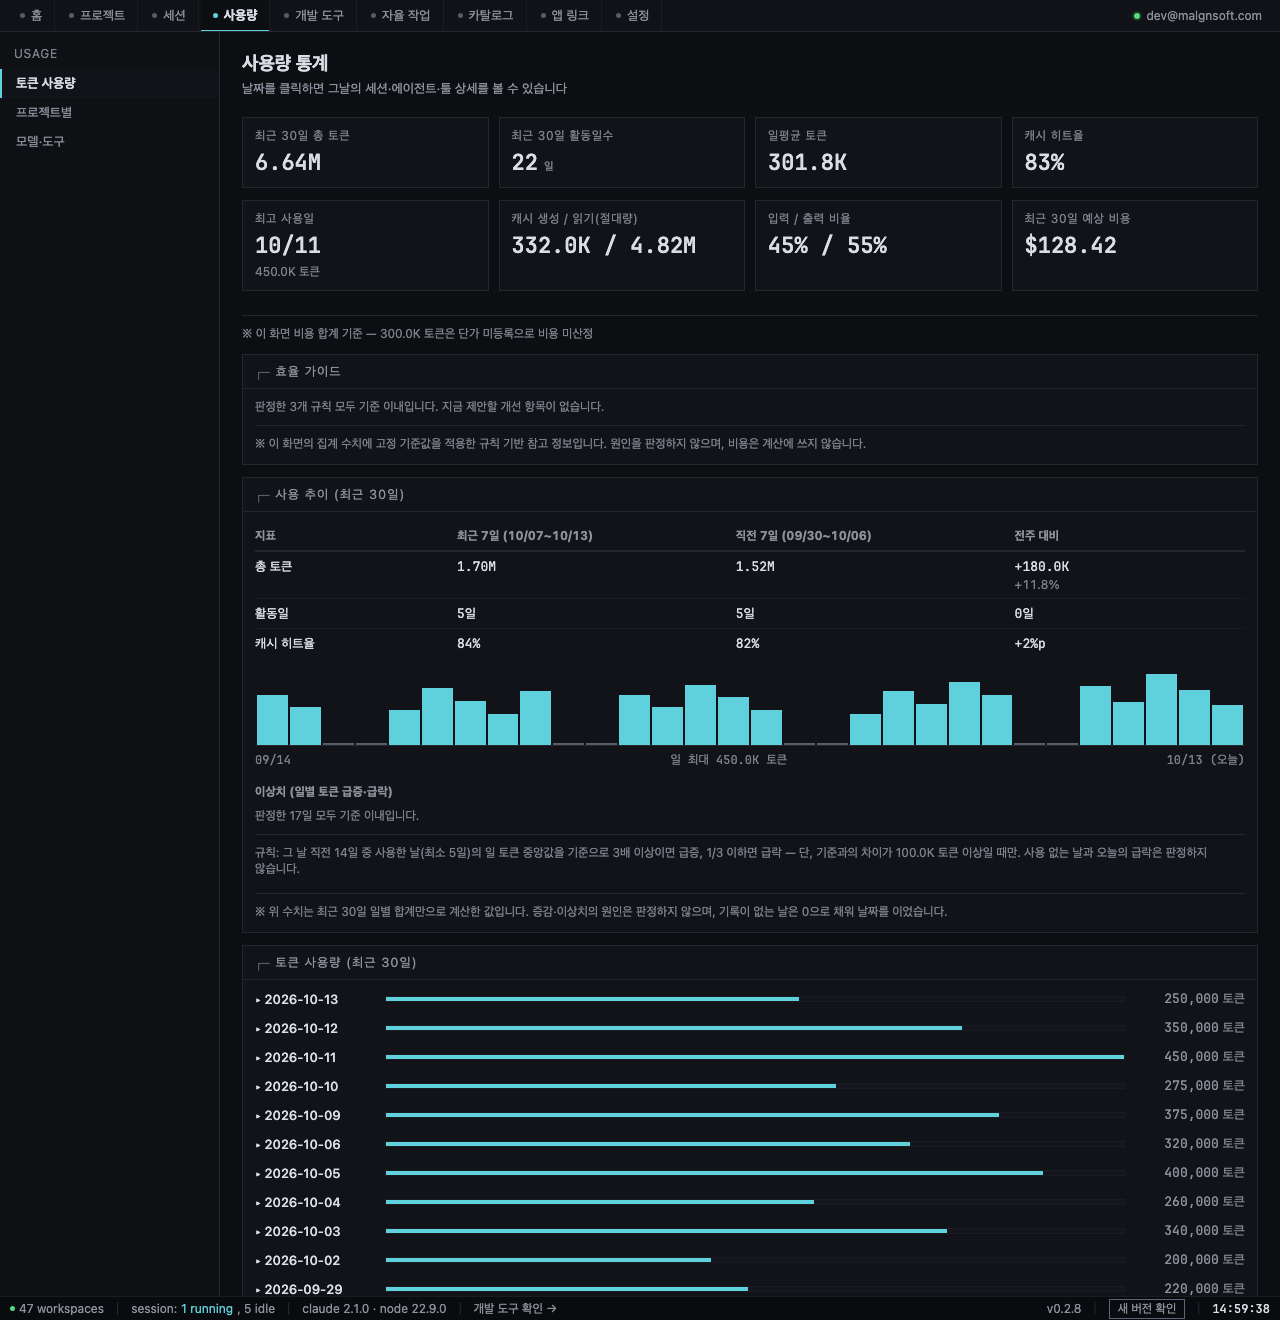
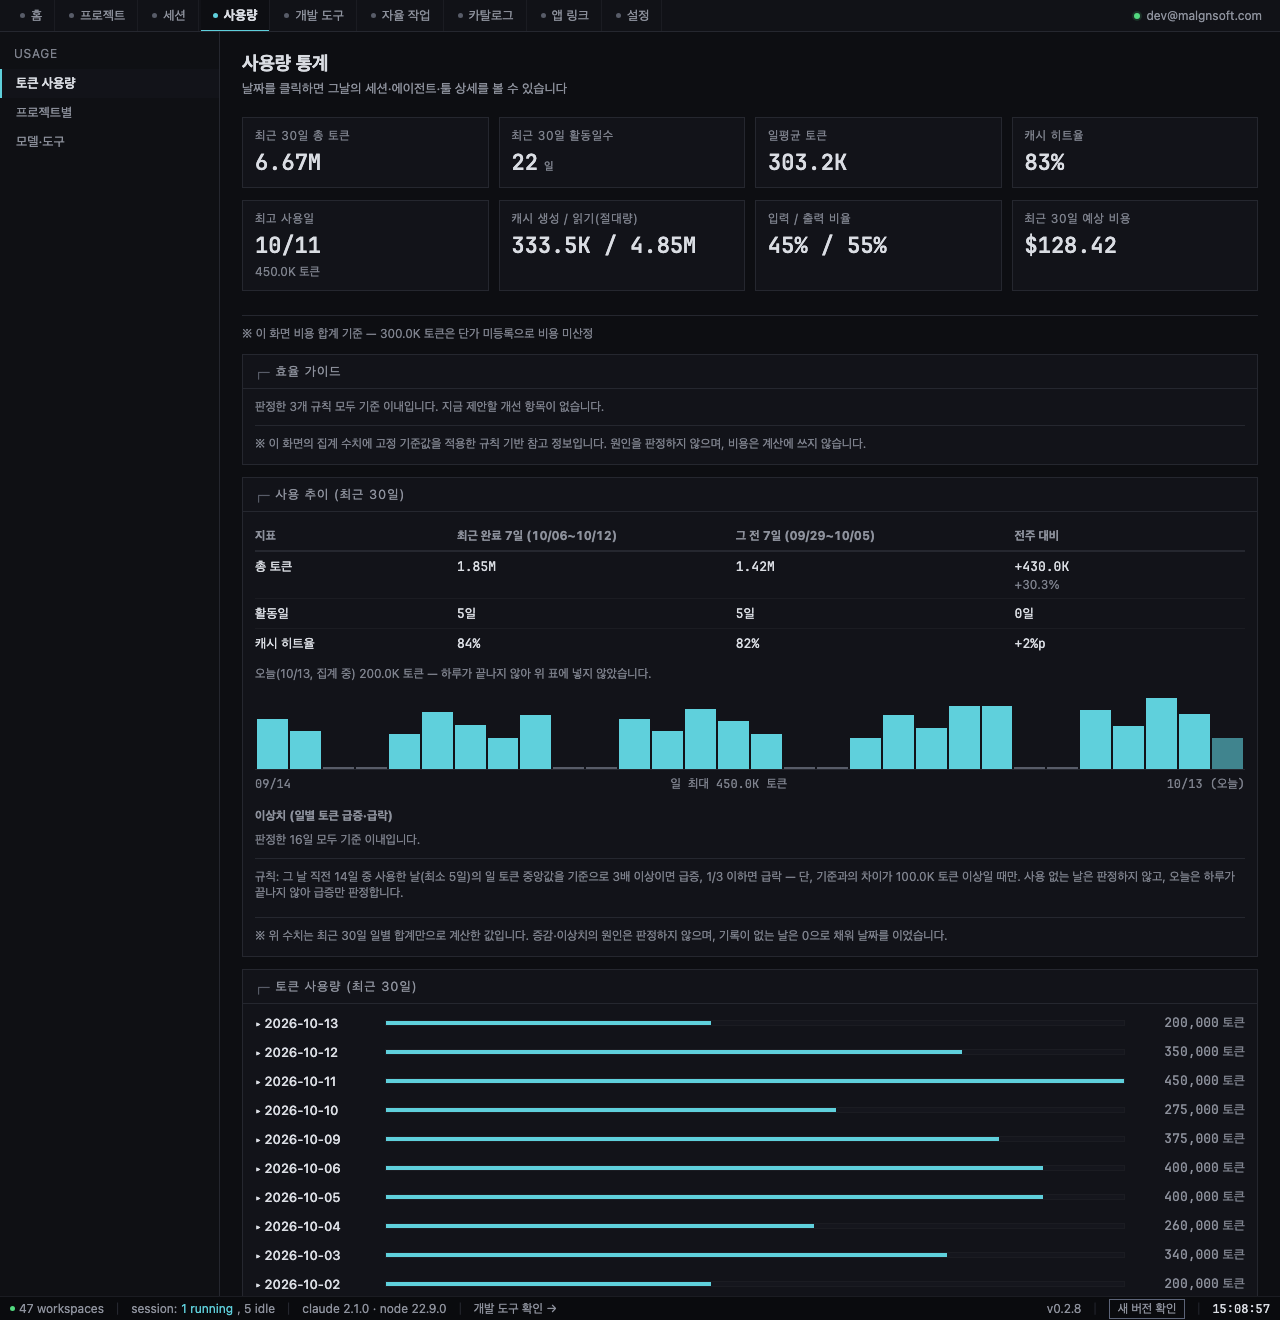
fix(r8): 주간 비교를 어제까지 끝난 7일 기준으로 바꾸고 오늘은 집계 중으로 따로 표기한다
- RV-001: 최근 완료 7일(오늘-7~-1) vs 그 전 7일(오늘-14~-8)로 비교. 오늘 부분일은 표에
  넣지 않고 weekly.today로 돌려줘 "오늘(집계 중) N 토큰" 한 줄로 표 밖에 표기. 데이터 부족/
  직전 주 비교 불가 판정의 경과일도 끝난 날 기준.
- RV-002: 경과일 문구를 "최근 30일 안에서 첫 사용일부터 어제까지 N일"로 정정.
- RV-003: 오늘은 급증만 판정, 그 외는 unjudged(today-partial)라 '기준 이내' 카운트에서 제외.
- RV-006: 급락 막대·라벨을 상태색(빨강) 대신 중립색으로. 오늘 막대는 흐리게.
- 경계 검사 65->74건(오늘 부분일 격리·judgedCount 케이스 추가), 하네스 기대값·캡처 갱신.

diff --git a/src/usageTrend.ts b/src/usageTrend.ts
@@ -83,17 +83,26 @@ export interface WeekDelta {
   readonly cacheHitPointDiff: number | null; // 퍼센트포인트(%p) 차, 어느 한쪽이 null이면 null
 }
 
-// insufficient: 활동 시작 후 경과일 < 7 — 주간 요약 자체를 내지 않는다
-// no-baseline:  7 <= 경과일 < 14 — 이번 주만 보이고 직전 주와는 비교하지 않는다
-// ok:           경과일 >= 14 — 직전 주와 비교한다(직전 주 토큰이 0일 수는 있다)
+// 경과일은 "어제까지 끝난 날"만 센다(오늘은 하루가 끝나지 않아 제외).
+// insufficient: 경과일 < 7 — 주간 요약 자체를 내지 않는다
+// no-baseline:  7 <= 경과일 < 14 — 최근 완료 7일만 보이고 그 전 7일과는 비교하지 않는다
+// ok:           경과일 >= 14 — 그 전 7일과 비교한다(그 전 7일 토큰이 0일 수는 있다)
 export type WeeklyStatus = 'insufficient' | 'no-baseline' | 'ok';
+
+export interface TodayPartial {
+  readonly date: string;
+  readonly totalTokens: number; // 아직 끝나지 않은 오늘의 누적 — 주간 비교 창에 넣지 않는다
+}
 
 export interface WeeklySummary {
   readonly status: WeeklyStatus;
-  readonly spanDays: number; // 최초 사용일부터 오늘까지 경과일(양끝 포함), 사용 기록이 없으면 0
-  readonly current: WeekMetrics | null; // insufficient이면 null
-  readonly previous: WeekMetrics | null; // ok일 때만
+  // 최근 30일 창 안에서 처음 사용한 날부터 어제까지의 경과일(양끝 포함). 어제까지 사용한
+  // 날이 없으면 0. (창 밖 — 31일 전 이전 — 의 사용은 입력에 없어 알 수 없다.)
+  readonly spanDays: number;
+  readonly current: WeekMetrics | null; // 어제까지 끝난 7일. insufficient이면 null
+  readonly previous: WeekMetrics | null; // 그 전 7일. ok일 때만
   readonly delta: WeekDelta | null; // ok일 때만
+  readonly today: TodayPartial | null; // 집계 중인 오늘(표 밖 표기용). 시계열이 비었으면 null
 }
 
 export type AnomalyKind = 'spike' | 'drop' | 'normal' | 'unjudged';
@@ -219,23 +228,28 @@ function weekMetrics(points: readonly SeriesPoint[], deps: TrendDeps): WeekMetri
 }
 
 /**
- * 최근 7일(오늘 포함)과 직전 7일을 요약하고 증감을 낸다.
- * 활동 시작(최초 사용일) 이후 경과일로 비교 가능 여부를 정한다 — 앞선 주가 "사용 안 한
- * 주"인지 "아직 수집 전인 주"인지 입력만으로는 구분할 수 없어서, 최초 사용일 이전 구간은
- * 비교 기준으로 쓰지 않는다.
+ * 어제까지 끝난 7일과 그 전 7일을 요약하고 증감을 낸다. 아직 끝나지 않은 오늘은 두 창
+ * 어디에도 넣지 않는다(하루 중 이른 시각일수록 "이번 주"가 낮게 잡혀 전주 대비 부호가
+ * 뒤집히는 편향을 막기 위해) — 오늘 수치는 today로 따로 돌려준다.
+ * 활동 시작(최근 30일 창 안 최초 사용일) 이후 "완료된 날" 경과일로 비교 가능 여부를 정한다 —
+ * 앞선 주가 "사용 안 한 주"인지 "아직 수집 전인 주"인지 입력만으로는 구분할 수 없어서,
+ * 최초 사용일 이전 구간은 비교 기준으로 쓰지 않는다.
+ * series의 마지막 점이 오늘이라고 가정한다(buildDailySeries가 그렇게 만든다).
  */
 export function summarizeWeeks(series: readonly SeriesPoint[], deps: TrendDeps): WeeklySummary {
   const W = TREND_THRESHOLDS.weekDays;
-  const firstActive = series.findIndex((p) => p.total > 0);
-  const spanDays = firstActive < 0 ? 0 : series.length - firstActive;
-  if (series.length < W * 2 || spanDays < W) {
-    return { status: 'insufficient', spanDays, current: null, previous: null, delta: null };
+  const today: TodayPartial | null = series.length > 0 ? { date: series[series.length - 1].date, totalTokens: series[series.length - 1].total } : null;
+  const done = series.slice(0, Math.max(0, series.length - 1)); // 어제까지 끝난 날
+  const firstActive = done.findIndex((p) => p.total > 0);
+  const spanDays = firstActive < 0 ? 0 : done.length - firstActive;
+  if (done.length < W * 2 || spanDays < W) {
+    return { status: 'insufficient', spanDays, current: null, previous: null, delta: null, today };
   }
-  const cur = weekMetrics(series.slice(series.length - W), deps);
+  const cur = weekMetrics(done.slice(done.length - W), deps);
   if (spanDays < W * 2) {
-    return { status: 'no-baseline', spanDays, current: cur, previous: null, delta: null };
+    return { status: 'no-baseline', spanDays, current: cur, previous: null, delta: null, today };
   }
-  const prev = weekMetrics(series.slice(series.length - W * 2, series.length - W), deps);
+  const prev = weekMetrics(done.slice(done.length - W * 2, done.length - W), deps);
   const tokensAbs = cur.totalTokens - prev.totalTokens;
   const delta: WeekDelta = {
     tokensAbs,
@@ -243,7 +257,7 @@ export function summarizeWeeks(series: readonly SeriesPoint[], deps: TrendDeps):
     activeDaysAbs: cur.activeDays - prev.activeDays,
     cacheHitPointDiff: cur.cacheHitRate !== null && prev.cacheHitRate !== null ? cur.cacheHitRate - prev.cacheHitRate : null,
   };
-  return { status: 'ok', spanDays, current: cur, previous: prev, delta };
+  return { status: 'ok', spanDays, current: cur, previous: prev, delta, today };
 }
 
 // ---------------- P3-2: 이상치 ----------------
@@ -258,10 +272,11 @@ function median(sortedAsc: readonly number[]): number {
  * 일별 토큰의 급증·급락을 판정한다. 규칙(TREND_THRESHOLDS):
  *   기준선 = 그 날 직전 14일 중 토큰 > 0인 날들의 일 토큰 중앙값 (그 날 자신은 제외).
  *   급증  = 그 날 >= 기준선 x 3  그리고  (그 날 - 기준선) >= 100,000 토큰
- *   급락  = 그 날 <= 기준선 / 3  그리고  (기준선 - 그 날) >= 100,000 토큰 (그 날 > 0, 오늘 제외)
+ *   급락  = 그 날 <= 기준선 / 3  그리고  (기준선 - 그 날) >= 100,000 토큰 (그 날 > 0)
  * 판정하지 않는 경우(kind='unjudged'): 사용 없는 날(0 — 휴무와 구분할 수 없다), 기준선에
- * 쓸 사용일이 5일 미만, 오늘(하루가 끝나지 않아 급락 판정 불가 — 급증은 이미 쌓인 양이라
- * 판정한다). 기준선은 입력 구간(최근 30일) 안의 날만 쓴다.
+ * 쓸 사용일이 5일 미만, 오늘(하루가 끝나지 않았다 — 급증만 판정한다. 이미 쌓인 양이 기준
+ * 이상이면 하루가 끝나도 줄지 않기 때문이다. 급증이 아니면 '기준 이내'도 '급락'도 단정하지
+ * 않고 today-partial로 둔다). 기준선은 입력 구간(최근 30일) 안의 날만 쓴다.
  */
 export function detectAnomalies(series: readonly SeriesPoint[], today: string): AnomalyReport {
   const T = TREND_THRESHOLDS;
@@ -284,7 +299,8 @@ export function detectAnomalies(series: readonly SeriesPoint[], today: string): 
     const isToday = p.date === today;
     let kind: AnomalyKind = 'normal';
     if (m > 0 && p.total >= m * T.spikeRatio && absDev >= T.minAbsDeviationTokens) kind = 'spike';
-    else if (m > 0 && p.total * T.dropDivisor <= m && absDev >= T.minAbsDeviationTokens) kind = isToday ? 'unjudged' : 'drop';
+    else if (isToday) kind = 'unjudged';
+    else if (m > 0 && p.total * T.dropDivisor <= m && absDev >= T.minAbsDeviationTokens) kind = 'drop';
     points.push({ ...base, kind, baselineMedian: m, ratio, reason: kind === 'unjudged' ? 'today-partial' : null });
   }
   const judgedCount = points.filter((p) => p.kind !== 'unjudged').length;

diff --git a/src/views/usage.ts b/src/views/usage.ts
@@ -542,8 +542,8 @@ function renderWeeklySummary(trend: UsageTrend): HTMLElement {
   if (w.status === 'insufficient' || !w.current) {
     const msg =
       w.spanDays === 0
-        ? '사용 기록이 없어 주간 요약을 내지 않습니다.'
-        : `사용 기록이 있는 기간이 ${w.spanDays}일입니다 — 7일 이상 쌓여야 주간 요약을, 14일 이상 쌓여야 전주 대비를 냅니다.`;
+        ? '어제까지 끝난 날의 사용 기록이 없어 주간 요약을 내지 않습니다.'
+        : `최근 30일 안에서 첫 사용일부터 어제까지 ${w.spanDays}일이 지났습니다 — 끝난 날이 7일 이상이어야 주간 요약을, 14일 이상이어야 전주 대비를 냅니다.`;
     const block = el('div', { className: 'state-block-desc trend-weekly-note' }, [msg]);
     block.setAttribute('data-trend-weekly', 'insufficient');
     return block;
@@ -552,7 +552,7 @@ function renderWeeklySummary(trend: UsageTrend): HTMLElement {
   const prev = w.previous;
   const d = w.delta;
   const rows: HTMLElement[] = [
-    trendRow(['지표', `최근 7일 (${weekRangeLabel(cur)})`, prev ? `직전 7일 (${weekRangeLabel(prev)})` : '직전 7일', '전주 대비'], true),
+    trendRow(['지표', `최근 완료 7일 (${weekRangeLabel(cur)})`, prev ? `그 전 7일 (${weekRangeLabel(prev)})` : '그 전 7일', '전주 대비'], true),
     trendRow([
       '총 토큰',
       formatTokenCount(cur.totalTokens),
@@ -579,7 +579,14 @@ function renderWeeklySummary(trend: UsageTrend): HTMLElement {
   ];
   const parts: HTMLElement[] = [el('div', { className: 'trend-week-table' }, rows)];
   if (w.status === 'no-baseline') {
-    parts.push(el('div', { className: 'state-block-desc trend-weekly-note' }, [`직전 7일은 사용 기록이 있는 기간(${w.spanDays}일)을 벗어나 비교하지 않습니다 — 14일 이상 쌓이면 전주 대비를 표시합니다.`]));
+    parts.push(el('div', { className: 'state-block-desc trend-weekly-note' }, [`그 전 7일은 최근 30일 안 첫 사용일보다 앞이라(첫 사용일부터 어제까지 ${w.spanDays}일) 비교하지 않습니다 — 끝난 날이 14일 이상 쌓이면 전주 대비를 표시합니다.`]));
+  }
+  if (w.today) {
+    const t = el('div', { className: 'state-block-desc trend-weekly-note trend-today-note' }, [
+      `오늘(${formatMonthDay(w.today.date)}, 집계 중) ${formatTokenCount(w.today.totalTokens)} 토큰 — 하루가 끝나지 않아 위 표에 넣지 않았습니다.`,
+    ]);
+    t.setAttribute('data-trend-today', String(w.today.totalTokens));
+    parts.push(t);
   }
   const box = el('div', { className: 'trend-weekly' }, parts);
   box.setAttribute('data-trend-weekly', w.status);
@@ -608,8 +615,8 @@ function renderDailyTrendChart(trend: UsageTrend): HTMLElement {
   const kindByDate = new Map(trend.anomalies.points.map((p) => [p.date, p.kind]));
   const bars = trend.series.map((p, i) => {
     const kind = kindByDate.get(p.date);
-    const cls = kind === 'spike' ? ' trend-bar-spike' : kind === 'drop' ? ' trend-bar-drop' : p.total === 0 ? ' trend-bar-zero' : '';
     const isToday = i === trend.series.length - 1;
+    const cls = (kind === 'spike' ? ' trend-bar-spike' : kind === 'drop' ? ' trend-bar-drop' : p.total === 0 ? ' trend-bar-zero' : '') + (isToday ? ' trend-bar-today' : '');
     const bar = el('div', { className: `trend-bar${cls}` }, []);
     bar.style.height = p.total === 0 ? '2px' : `${Math.max(3, Math.round((p.total / max) * 100))}%`;
     bar.title = `${p.date} · ${p.total.toLocaleString('ko-KR')} 토큰${isToday ? ' (오늘, 집계 중)' : ''}${kind === 'spike' ? ' · 급증' : kind === 'drop' ? ' · 급락' : ''}`;
@@ -631,7 +638,7 @@ function renderDailyTrendChart(trend: UsageTrend): HTMLElement {
 function renderAnomalies(trend: UsageTrend): HTMLElement {
   const T = TREND_THRESHOLDS;
   const a = trend.anomalies;
-  const rule = `규칙: 그 날 직전 ${T.baselineLookbackDays}일 중 사용한 날(최소 ${T.minBaselineActiveDays}일)의 일 토큰 중앙값을 기준으로 ${T.spikeRatio}배 이상이면 급증, 1/${T.dropDivisor} 이하면 급락 — 단, 기준과의 차이가 ${formatTokenCount(T.minAbsDeviationTokens)} 토큰 이상일 때만. 사용 없는 날과 오늘의 급락은 판정하지 않습니다.`;
+  const rule = `규칙: 그 날 직전 ${T.baselineLookbackDays}일 중 사용한 날(최소 ${T.minBaselineActiveDays}일)의 일 토큰 중앙값을 기준으로 ${T.spikeRatio}배 이상이면 급증, 1/${T.dropDivisor} 이하면 급락 — 단, 기준과의 차이가 ${formatTokenCount(T.minAbsDeviationTokens)} 토큰 이상일 때만. 사용 없는 날은 판정하지 않고, 오늘은 하루가 끝나지 않아 급증만 판정합니다.`;
   const head = el('div', { className: 'trend-subhead' }, ['이상치 (일별 토큰 급증·급락)']);
   let body: HTMLElement;
   let state: string;

diff --git a/src/styles.css b/src/styles.css
@@ -1515,14 +1515,15 @@ textarea.settings-input { resize: vertical; }
 .trend-bar { flex: 1 1 0; min-width: 3px; background: var(--accent); border-radius: var(--radius-0); }
 .trend-bar-zero { background: var(--text-muted); }
 .trend-bar-spike { background: var(--status-warn); }
-.trend-bar-drop { background: var(--status-bad); }
+.trend-bar-drop { background: var(--color-ink-muted); } /* 급락은 좋고 나쁨이 없는 사실이라 상태색(빨강)을 쓰지 않는다 */
+.trend-bar-today { opacity: 0.6; } /* 집계 중인 오늘 */
 .trend-axis { display: flex; justify-content: space-between; font-size: var(--font-size-caption); color: var(--text-muted-aa); font-family: var(--font-numeric); font-variant-numeric: tabular-nums; }
 .trend-subhead { font-size: var(--font-size-caption); font-weight: 700; color: var(--color-ink-muted); margin-bottom: var(--space-2); }
 .trend-anomaly-list { margin: 0; padding: 0; list-style: none; display: flex; flex-direction: column; gap: var(--space-1-5); font-size: var(--font-size-small); }
 .trend-anomaly { display: flex; flex-wrap: wrap; align-items: baseline; gap: var(--space-1) var(--space-3); }
 .trend-anomaly-mark { font-weight: 700; min-width: 56px; }
 .trend-anomaly-spike .trend-anomaly-mark { color: var(--status-warn); }
-.trend-anomaly-drop .trend-anomaly-mark { color: var(--status-bad); }
+.trend-anomaly-drop .trend-anomaly-mark { color: var(--color-ink-muted); }
 .trend-anomaly-date, .trend-anomaly-value { font-family: var(--font-numeric); font-variant-numeric: tabular-nums; }
 .trend-anomaly-basis { font-size: var(--font-size-caption); color: var(--text-muted-aa); }
 .trend-body .unpriced-note { margin-top: 0; word-break: keep-all; }
